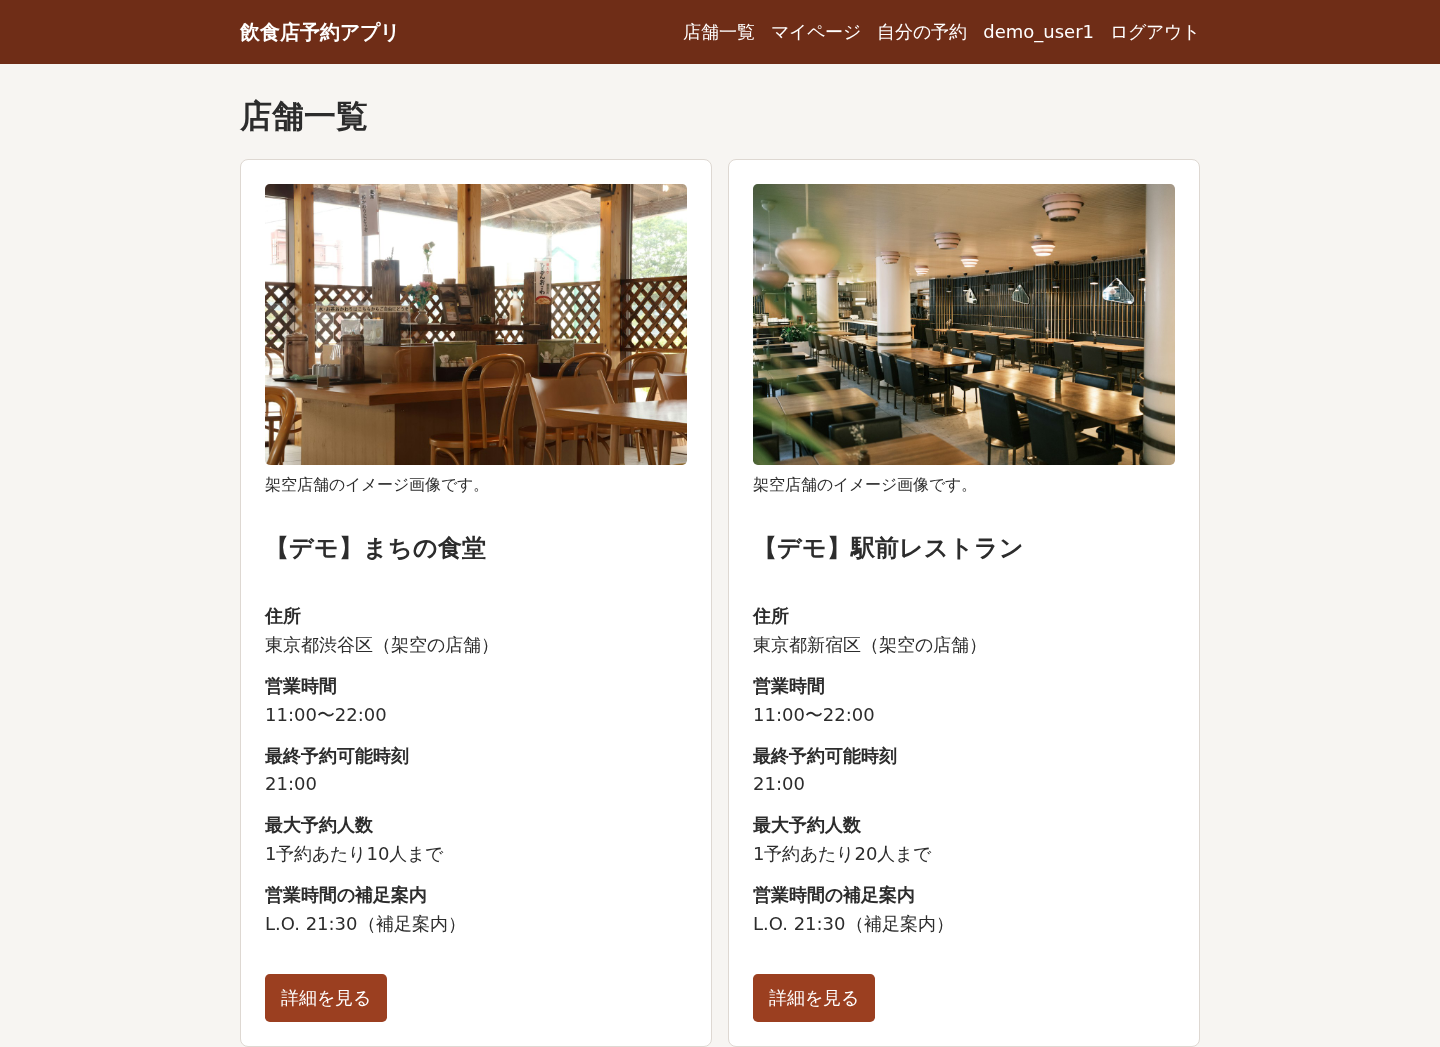
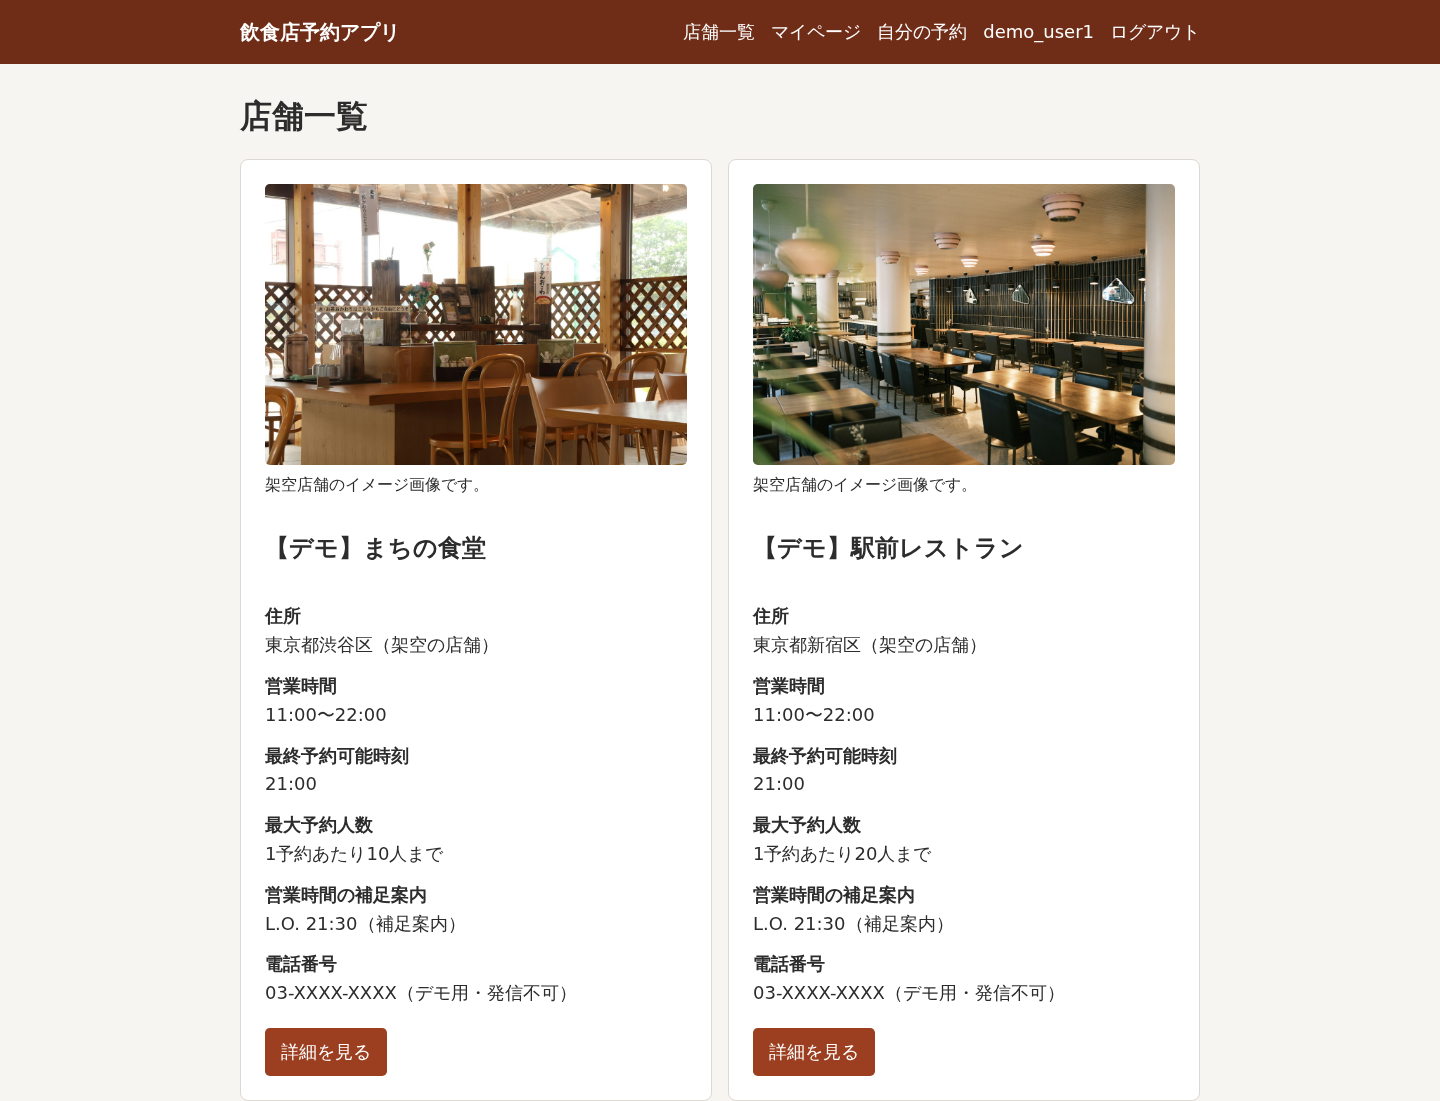
Improve restaurant contact display and mypage UI

Changed region(s): [[0.1562, 0.0917, 0.8125, 0.978], [0.0, 0.0, 1.0, 0.0611]]

diff --git a/templates/reservations/_reservation_contact.html b/templates/reservations/_reservation_contact.html
@@ -1,15 +1,11 @@
 <section aria-label="店舗への問い合わせ案内">
   {% if restaurant.max_party_size >= 1 %}
-    <p>オンライン予約は1予約あたり{{ restaurant.max_party_size }}名までです。{{ restaurant.max_party_size }}名を超える場合のご利用については、店舗へのお問い合わせが必要です。</p>
+    <p>オンライン予約は1予約あたり{{ restaurant.max_party_size }}名までです。{{ restaurant.max_party_size }}名を超える場合は、店舗への直接のお問い合わせが必要です。</p>
   {% endif %}
-  {% with phone=restaurant.phone_number_tel %}
-    {% if phone %}
-      <p>店舗へ電話でお問い合わせください。電話：<a href="tel:{{ phone }}">{{ restaurant.phone_number }}</a></p>
-    {% elif restaurant.phone_number %}
-      <p>このページの店舗の電話番号は不正なため、電話リンクを表示できません。</p>
-    {% else %}
-      <p>このページには店舗の電話番号が登録されていません。</p>
-    {% endif %}
-  {% endwith %}
+  {% include "reservations/_restaurant_phone.html" %}
+  {% if is_demo_restaurant and not restaurant.phone_number %}
+    <p class="supplementary">※ この店舗は架空店舗のため、実際のお問い合わせはできません。</p>
+  {% else %}
   <p class="supplementary">電話でのお問い合わせのみでは予約は確定しません。受付可否・予約手続きは店舗にご確認ください。</p>
+  {% endif %}
 </section>

diff --git a/templates/reservations/_restaurant_phone.html b/templates/reservations/_restaurant_phone.html
@@ -1,0 +1,13 @@
+{% if compact %}<dt>電話番号</dt><dd>{% else %}<p>{% endif %}
+{% with phone=restaurant.phone_number_tel %}
+  {% if phone %}
+    {% if not compact %}店舗へ電話でお問い合わせください。電話：{% endif %}<a href="tel:{{ phone }}">{{ restaurant.phone_number }}</a>
+  {% elif restaurant.phone_number %}
+    このページの店舗の電話番号は不正なため、電話リンクを表示できません。
+  {% elif is_demo_restaurant %}
+    {% if not compact %}電話番号：{% endif %}03-XXXX-XXXX（デモ用・発信不可）
+  {% else %}
+    このページには店舗の電話番号が登録されていません。
+  {% endif %}
+{% endwith %}
+{% if compact %}</dd>{% else %}</p>{% endif %}

diff --git a/templates/base.html b/templates/base.html
@@ -19,7 +19,7 @@
         {% if user.is_authenticated %}
           <a href="{% url 'accounts:mypage' %}">マイページ</a>
           <a href="{% url 'reservations:reservation_list' %}">自分の予約</a>
-          <span class="nav-username">{{ user.username }}</span>
+          {% block header_username %}<span class="nav-username">{{ user.username }}</span>{% endblock %}
           <form class="logout-form" method="post" action="{% url 'accounts:logout' %}">
             {% csrf_token %}
             <button class="logout-button" type="submit">ログアウト</button>

diff --git a/templates/reservations/restaurant_list.html b/templates/reservations/restaurant_list.html
@@ -22,6 +22,7 @@
           <dd>1予約あたり{{ restaurant.max_party_size }}人まで</dd>
           <dt>営業時間の補足案内</dt>
           <dd>{{ restaurant.business_hours|linebreaksbr }}</dd>
+          {% include "reservations/_restaurant_phone.html" with is_demo_restaurant=restaurant.is_demo compact=True %}
         </dl>
         {% if not restaurant.can_accept_reservations %}
           <p>店舗の予約設定が未完了または不正のため、現在予約を受け付けていません。</p>

diff --git a/reservations/static/reservations/style.css b/reservations/static/reservations/style.css
@@ -116,6 +116,10 @@ h2 {
   flex-direction: column;
 }
 
+.restaurant-grid--restaurants .restaurant-card > dl {
+  margin-bottom: 0.5rem;
+}
+
 .restaurant-grid--restaurants .restaurant-card > .button:last-child {
   margin-top: auto;
   align-self: flex-start;

diff --git a/templates/accounts/mypage.html b/templates/accounts/mypage.html
@@ -2,6 +2,8 @@
 
 {% block title %}マイページ | 飲食店予約アプリ{% endblock %}
 
+{% block header_username %}{% endblock %}
+
 {% block content %}
 <section class="auth-panel">
   <h1>マイページ</h1>

diff --git a/reservations/tests.py b/reservations/tests.py
@@ -285,13 +285,13 @@ class RestaurantAdminTests(TestCase):
         self.assertEqual(add_response.status_code, 200)
 
 
-    def test_admin_can_set_change_clear_phone_and_reject_whitespace(self):
+    def test_admin_can_set_change_phone_and_reject_empty_or_invalid_values(self):
         self.client.force_login(self.superuser)
         url = reverse("admin:reservations_restaurant_add")
         data = dict(name="電話食堂", description="説明", address="東京", business_hours="補足",
                     max_party_size="10", phone_number="03-1234-5678", _save="保存")
         self.assertContains(self.client.get(url), 'name="phone_number"')
-        for number in (" 0312345678", "0312345678 ", " ", "03--1234-5678", "abcdefghij"):
+        for number in ("", " 0312345678", "0312345678 ", " ", "03--1234-5678", "abcdefghij"):
             response = self.client.post(url, {**data, "phone_number": number})
             self.assertEqual(response.status_code, 200)
             self.assertIn("phone_number", response.context["adminform"].form.errors)
@@ -300,17 +300,45 @@ class RestaurantAdminTests(TestCase):
         restaurant = Restaurant.objects.get()
         self.assertEqual(restaurant.phone_number, "03-1234-5678")
         change = reverse("admin:reservations_restaurant_change", args=[restaurant.pk])
-        for number in ("090-1234-5678", ""):
+        for number in ("090-1234-5678", "0312345678"):
             self.assertEqual(self.client.post(change, {**data, "phone_number": number}).status_code, 302)
             restaurant.refresh_from_db()
             self.assertEqual(restaurant.phone_number, number)
+
+    def test_admin_requires_phone_for_existing_restaurant_without_changing_data(self):
+        self.client.force_login(self.superuser)
+        restaurant = Restaurant.objects.create(
+            name="既存食堂", description="説明", address="東京", business_hours="補足",
+        )
+        url = reverse("admin:reservations_restaurant_change", args=[restaurant.pk])
+        before = Restaurant.objects.filter(pk=restaurant.pk).values().get()
+        response = self.client.get(url)
+        field = response.context["adminform"].form.fields["phone_number"]
+        self.assertTrue(field.required)
+        self.assertContains(response, "実際に使用権限のある電話番号を登録してください。")
+        self.assertContains(response, "実在する番号への誤発信につながる可能性があります。")
+        self.assertEqual(Restaurant.objects.filter(pk=restaurant.pk).values().get(), before)
+        data = dict(name="変更名", description="説明", address="東京", business_hours="補足",
+                    max_party_size="10", phone_number="", _save="保存")
+        for phone in ("", "03-XXXX-XXXX"):
+            response = self.client.post(url, {**data, "phone_number": phone})
+            self.assertEqual(response.status_code, 200)
+            self.assertIn("phone_number", response.context["adminform"].form.errors)
+            self.assertEqual(Restaurant.objects.filter(pk=restaurant.pk).values().get(), before)
+        self.assertEqual(self.client.post(url, {**data, "phone_number": "03-1234-5678"}).status_code, 302)
+        restaurant.refresh_from_db()
+        self.assertEqual(restaurant.phone_number, "03-1234-5678")
+        self.assertEqual(restaurant.name, "変更名")
+        saved = Restaurant.objects.filter(pk=restaurant.pk).values().get()
+        self.assertEqual(self.client.post(url, data).status_code, 200)
+        self.assertEqual(Restaurant.objects.filter(pk=restaurant.pk).values().get(), saved)
 
     def test_admin_saves_rules_and_rejects_invalid_settings(self):
         self.client.force_login(self.superuser)
         url = reverse("admin:reservations_restaurant_add")
         data = dict(name="管理食堂", description="説明", address="東京都", business_hours="L.O. 21:30",
                     opening_time="11:00", last_reservation_time="21:00", closing_time="22:00",
-                    max_party_size="20", _save="保存")
+                    max_party_size="20", phone_number="03-1234-5678", _save="保存")
         response = self.client.get(url)
         for field in ("opening_time", "last_reservation_time", "closing_time", "max_party_size"):
             self.assertContains(response, f'name="{field}"')
@@ -710,7 +738,7 @@ class ReservationTests(TestCase):
                 self.restaurant.save()
                 for url in (detail, self.create_url):
                     response = self.client.get(url)
-                    self.assertContains(response, f"{maximum}名を超える場合")
+                    self.assertContains(response, f"オンライン予約は1予約あたり{maximum}名までです。{maximum}名を超える場合は、店舗への直接のお問い合わせが必要です。")
                     self.assertContains(response, "お問い合わせのみでは予約は確定しません")
                     if number == "03-1234-5678":
                         self.assertContains(response, '<a href="tel:0312345678">03-1234-5678</a>', html=True)
@@ -751,6 +779,93 @@ class ReservationTests(TestCase):
                 else:
                     self.assertNotContains(response, "tel:")
                     self.assertContains(response, "登録されていません")
+
+    def test_phone_display_priority_on_all_three_pages(self):
+        urls = (reverse("reservations:restaurant_list"),
+                reverse("reservations:restaurant_detail", args=[self.restaurant.pk]), self.create_url)
+        for name in ("【デモ】まちの食堂", "【デモ】駅前レストラン", "通常店舗"):
+            for number in ("", "03-1234-5678", "invalid"):
+                self.restaurant.name = name
+                self.restaurant.description = "[seed_demo:v1]\n説明"
+                self.restaurant.phone_number = number
+                self.restaurant.save()
+                before = Restaurant.objects.filter(pk=self.restaurant.pk).values().get()
+                for url in urls:
+                    with self.subTest(name=name, number=number, url=url):
+                        response = self.client.get(url)
+                        demo_empty = name != "通常店舗" and not number
+                        if demo_empty:
+                            self.assertContains(response, "03-XXXX-XXXX（デモ用・発信不可）")
+                            self.assertNotContains(response, "※ デモ用の架空番号です。実際に電話をかけることはできません。")
+                        else:
+                            self.assertNotContains(response, "03-XXXX-XXXX")
+                            self.assertNotContains(response, "デモ用の架空番号です")
+                        if number == "03-1234-5678":
+                            self.assertContains(response, '<a href="tel:0312345678">03-1234-5678</a>', html=True)
+                        else:
+                            self.assertNotContains(response, "tel:")
+                            if number:
+                                self.assertContains(response, "電話番号は不正なため")
+                            elif not demo_empty:
+                                self.assertContains(response, "電話番号が登録されていません")
+                self.assertEqual(Restaurant.objects.filter(pk=self.restaurant.pk).values().get(), before)
+
+    def test_demo_contact_requires_both_name_and_exact_leading_marker(self):
+        for name, description in (
+            ("【デモ】まちの食堂", "普通の説明"),
+            ("通常店舗", "[seed_demo:v1]\n説明"),
+            ("【デモ】まちの食堂", "説明\n[seed_demo:v1]\n"),
+            ("【デモ】駅前レストラン", "[seed_demo:v1]\r\n説明"),
+        ):
+            self.restaurant.name, self.restaurant.description = name, description
+            self.restaurant.save()
+            for url in (reverse("reservations:restaurant_list"),
+                        reverse("reservations:restaurant_detail", args=[self.restaurant.pk]), self.create_url):
+                with self.subTest(name=name, description=description, url=url):
+                    response = self.client.get(url)
+                    self.assertNotContains(response, "03-XXXX-XXXX")
+                    self.assertContains(response, "電話番号が登録されていません")
+
+    def test_demo_party_size_error_keeps_contact_and_does_not_save(self):
+        for name, maximum in (("【デモ】まちの食堂", 10), ("【デモ】駅前レストラン", 20)):
+            self.restaurant.name = name
+            self.restaurant.description = "[seed_demo:v1]\n説明"
+            self.restaurant.max_party_size = maximum
+            self.restaurant.save()
+            for number in ("", "03-1234-5678", "invalid"):
+                self.restaurant.phone_number = number
+                self.restaurant.save()
+                before = Reservation.objects.count()
+                data = self.data(party_size=str(maximum + 1))
+                response = self.client.post(self.create_url, data)
+                self.assertEqual(response.status_code, 200)
+                self.assertEqual(Reservation.objects.count(), before)
+                self.assertContains(response, f"人数は{maximum}人以下を指定してください。")
+                for key, value in data.items():
+                    self.assertEqual(response.context["form"].data[key], value)
+                self.assertContains(response, "03-XXXX-XXXX（デモ用・発信不可）" if not number else
+                                    ("tel:0312345678" if number != "invalid" else "電話番号は不正なため"))
+                if not number:
+                    self.assertNotContains(response, "※ デモ用の架空番号です。実際に電話をかけることはできません。")
+                    self.assertContains(response, "※ この店舗は架空店舗のため、実際のお問い合わせはできません。", count=1)
+                    self.assertNotContains(response, "tel:")
+                    self.assertNotContains(response, "受付可否・予約手続きは店舗にご確認ください")
+                self.restaurant.refresh_from_db()
+                self.assertEqual(self.restaurant.phone_number, number)
+
+    def test_demo_contact_remains_when_booking_unavailable(self):
+        self.restaurant.name = "【デモ】まちの食堂"
+        self.restaurant.description = "[seed_demo:v1]\n説明"
+        for opening, last, closing in ((None, None, None), (time(11, 1), time(11, 2), time(12))):
+            self.restaurant.opening_time = opening
+            self.restaurant.last_reservation_time = last
+            self.restaurant.closing_time = closing
+            self.restaurant.save()
+            for url in (reverse("reservations:restaurant_list"),
+                        reverse("reservations:restaurant_detail", args=[self.restaurant.pk]), self.create_url):
+                response = self.client.get(url)
+                self.assertContains(response, "03-XXXX-XXXX（デモ用・発信不可）")
+                self.assertNotContains(response, "tel:")
 
     def test_party_size_uses_restaurant_limit_and_dynamic_display(self):
         for maximum, sizes in ((20, ((1, True), (20, True), (21, False))),

diff --git a/reservations/views.py b/reservations/views.py
@@ -8,18 +8,27 @@ from .models import Reservation, Restaurant
 from .validators import reservation_time_choices
 
 
+DEMO_RESTAURANT_IMAGES = {
+    "【デモ】まちの食堂": "reservations/images/demo-diner.jpg",
+    "【デモ】駅前レストラン": "reservations/images/demo-restaurant.jpg",
+}
+
+
+def _is_demo_restaurant(restaurant):
+    return (restaurant.name in DEMO_RESTAURANT_IMAGES
+            and restaurant.description.startswith("[seed_demo:v1]\n"))
+
+
 def _restaurant_image_path(restaurant):
-    if not restaurant.description.startswith("[seed_demo:v1]\n"):
+    if not _is_demo_restaurant(restaurant):
         return ""
-    return {
-        "【デモ】まちの食堂": "reservations/images/demo-diner.jpg",
-        "【デモ】駅前レストラン": "reservations/images/demo-restaurant.jpg",
-    }.get(restaurant.name, "")
+    return DEMO_RESTAURANT_IMAGES[restaurant.name]
 
 
 def restaurant_list(request):
     restaurants = Restaurant.objects.all()
     for restaurant in restaurants:
+        restaurant.is_demo = _is_demo_restaurant(restaurant)
         restaurant.image_static_path = _restaurant_image_path(restaurant)
     return render(
         request,
@@ -35,6 +44,7 @@ def restaurant_detail(request, pk):
         "reservations/restaurant_detail.html",
         {
             "restaurant": restaurant,
+            "is_demo_restaurant": _is_demo_restaurant(restaurant),
             "restaurant_description": restaurant.description.removeprefix("[seed_demo:v1]\n"),
             "restaurant_image": _restaurant_image_path(restaurant),
         },
@@ -60,6 +70,7 @@ def reservation_create(request, pk):
         "reservations/reservation_form.html",
         {
             "restaurant": restaurant,
+            "is_demo_restaurant": _is_demo_restaurant(restaurant),
             "form": form,
             "has_reservation_times": bool(reservation_time_choices(restaurant)),
         },

diff --git a/reservations/tests_seed_demo.py b/reservations/tests_seed_demo.py
@@ -56,6 +56,25 @@ class SeedDemoTests(TestCase):
                     self.assertLessEqual(row.party_size, row.restaurant.max_party_size)
                 self.assertTrue(next(row for row in rows if row.status == "confirmed").can_cancel)
 
+    def test_seeded_restaurants_show_demo_contact_without_database_changes(self):
+        self.seed()
+        self.client.force_login(get_user_model().objects.get(username="demo_user1"))
+        before = self.snapshot()
+        response = self.client.get(reverse("reservations:restaurant_list"), HTTP_HOST="localhost")
+        self.assertContains(response, "03-XXXX-XXXX（デモ用・発信不可）", count=2)
+        self.assertNotContains(response, "tel:")
+        self.assertContains(response, '<dt>電話番号</dt><dd>03-XXXX-XXXX（デモ用・発信不可）</dd>', count=2, html=True)
+        self.assertNotContains(response, "実際のお問い合わせはできません")
+        self.assertNotContains(response, "実際に電話をかけることはできません")
+        for restaurant in Restaurant.objects.all():
+            for view in ("restaurant_detail", "reservation_create"):
+                response = self.client.get(reverse(f"reservations:{view}", args=[restaurant.pk]),
+                                           HTTP_HOST="localhost")
+                self.assertContains(response, "03-XXXX-XXXX（デモ用・発信不可）")
+                self.assertNotContains(response, "※ デモ用の架空番号です。実際に電話をかけることはできません。")
+                self.assertNotContains(response, "tel:")
+        self.assertEqual(self.snapshot(), before)
+
     def test_rerun_preserves_every_row_and_user_changes(self):
         self.seed()
         user = get_user_model().objects.get(username="demo_user1")

diff --git a/accounts/tests.py b/accounts/tests.py
@@ -274,6 +274,20 @@ class MyPageTests(TestCase):
         self.assertNotContains(response, 'name="username"')
         self.assertContains(response, 'name="csrfmiddlewaretoken"')
 
+    def test_only_mypage_hides_header_username(self):
+        for response in (self.client.get(self.url),
+                         self.client.post(self.url, self.profile_data(email="invalid"))):
+            self.assertNotContains(response, 'class="nav-username"')
+            self.assertContains(response, f"<dd>{self.user.username}</dd>", html=True)
+            self.assertContains(response, reverse("accounts:logout"))
+        for url in (reverse("home"), reverse("reservations:restaurant_list"),
+                    reverse("reservations:restaurant_detail", args=[self.restaurant.pk]),
+                    reverse("reservations:reservation_create", args=[self.restaurant.pk]),
+                    reverse("reservations:reservation_list"), self.password_url):
+            with self.subTest(url=url):
+                self.assertContains(self.client.get(url),
+                                    f'<span class="nav-username">{self.user.username}</span>', html=True)
+
     def test_updates_optional_profile_and_accepts_duplicate_email(self):
         response = self.client.post(self.url, self.profile_data(), follow=True)
         self.assertRedirects(response, self.url)

diff --git a/reservations/admin.py b/reservations/admin.py
@@ -15,4 +15,10 @@ class RestaurantAdmin(admin.ModelAdmin):
         if db_field.name == "phone_number":
             # 標準CharFieldのstripで前後の空白を受理しない。
             kwargs["strip"] = False
+            kwargs["required"] = True
+            kwargs["help_text"] = (
+                "国内電話番号・半角数字10〜11桁。ハイフン任意。空白は使用できません。"
+                "実際に使用権限のある電話番号を登録してください。"
+                "適当な数字を入力すると、実在する番号への誤発信につながる可能性があります。"
+            )
         return super().formfield_for_dbfield(db_field, request, **kwargs)
